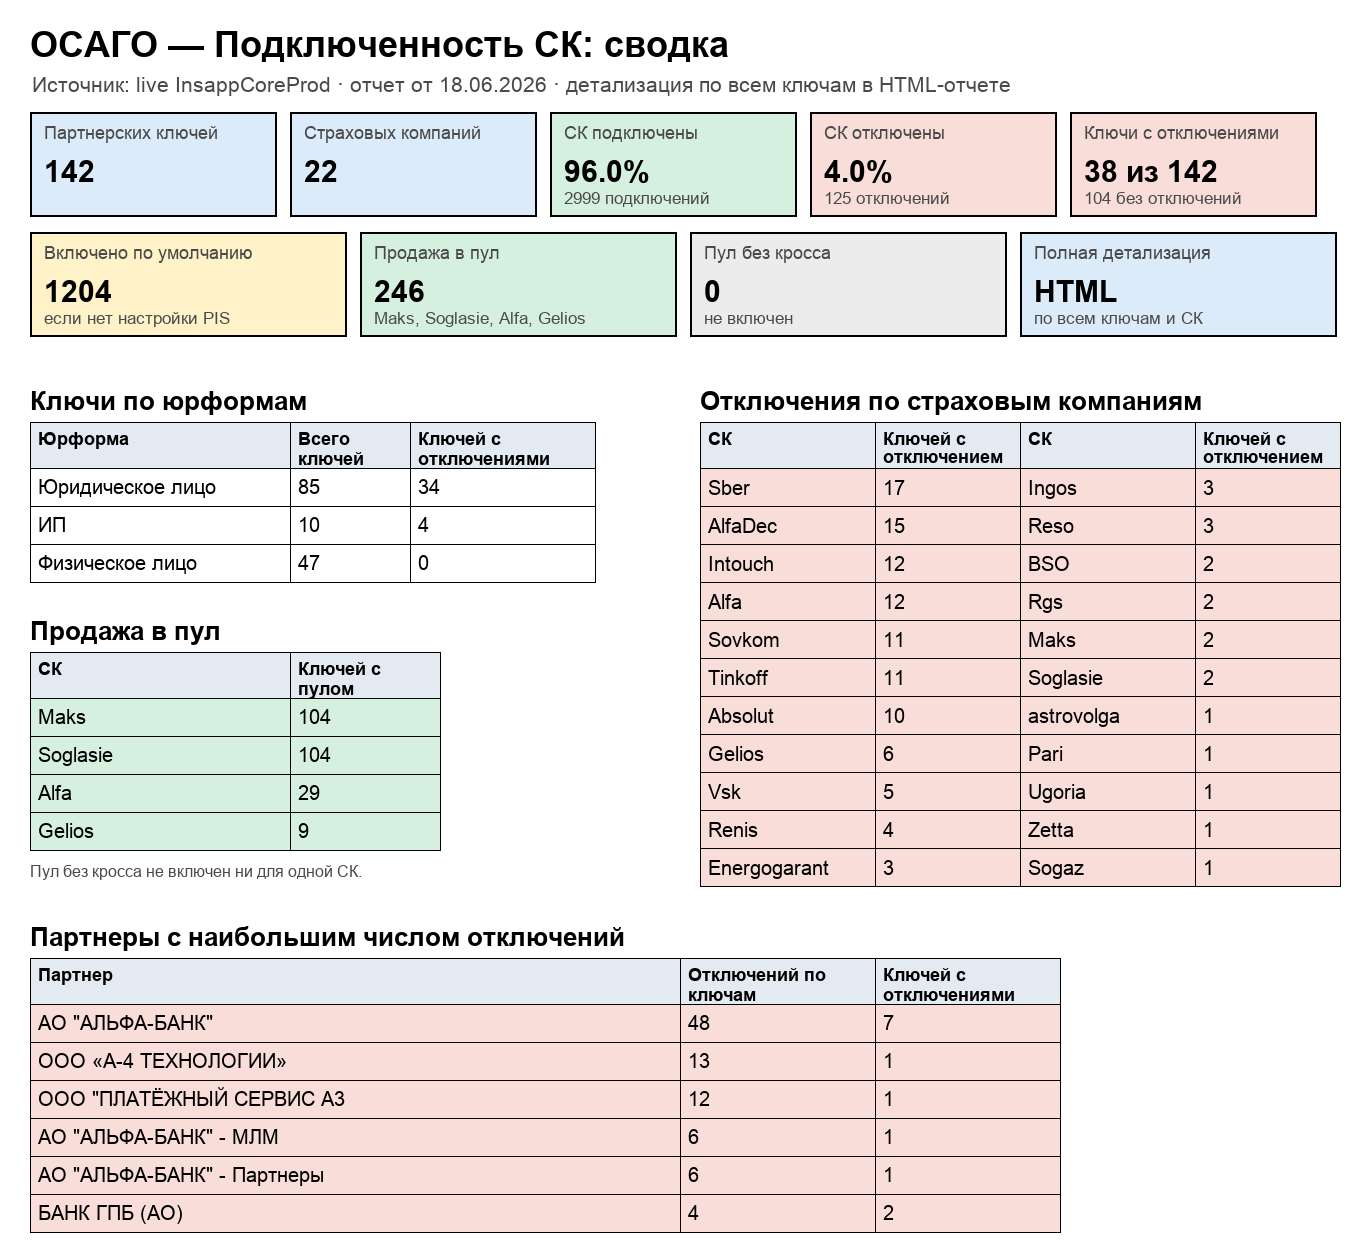
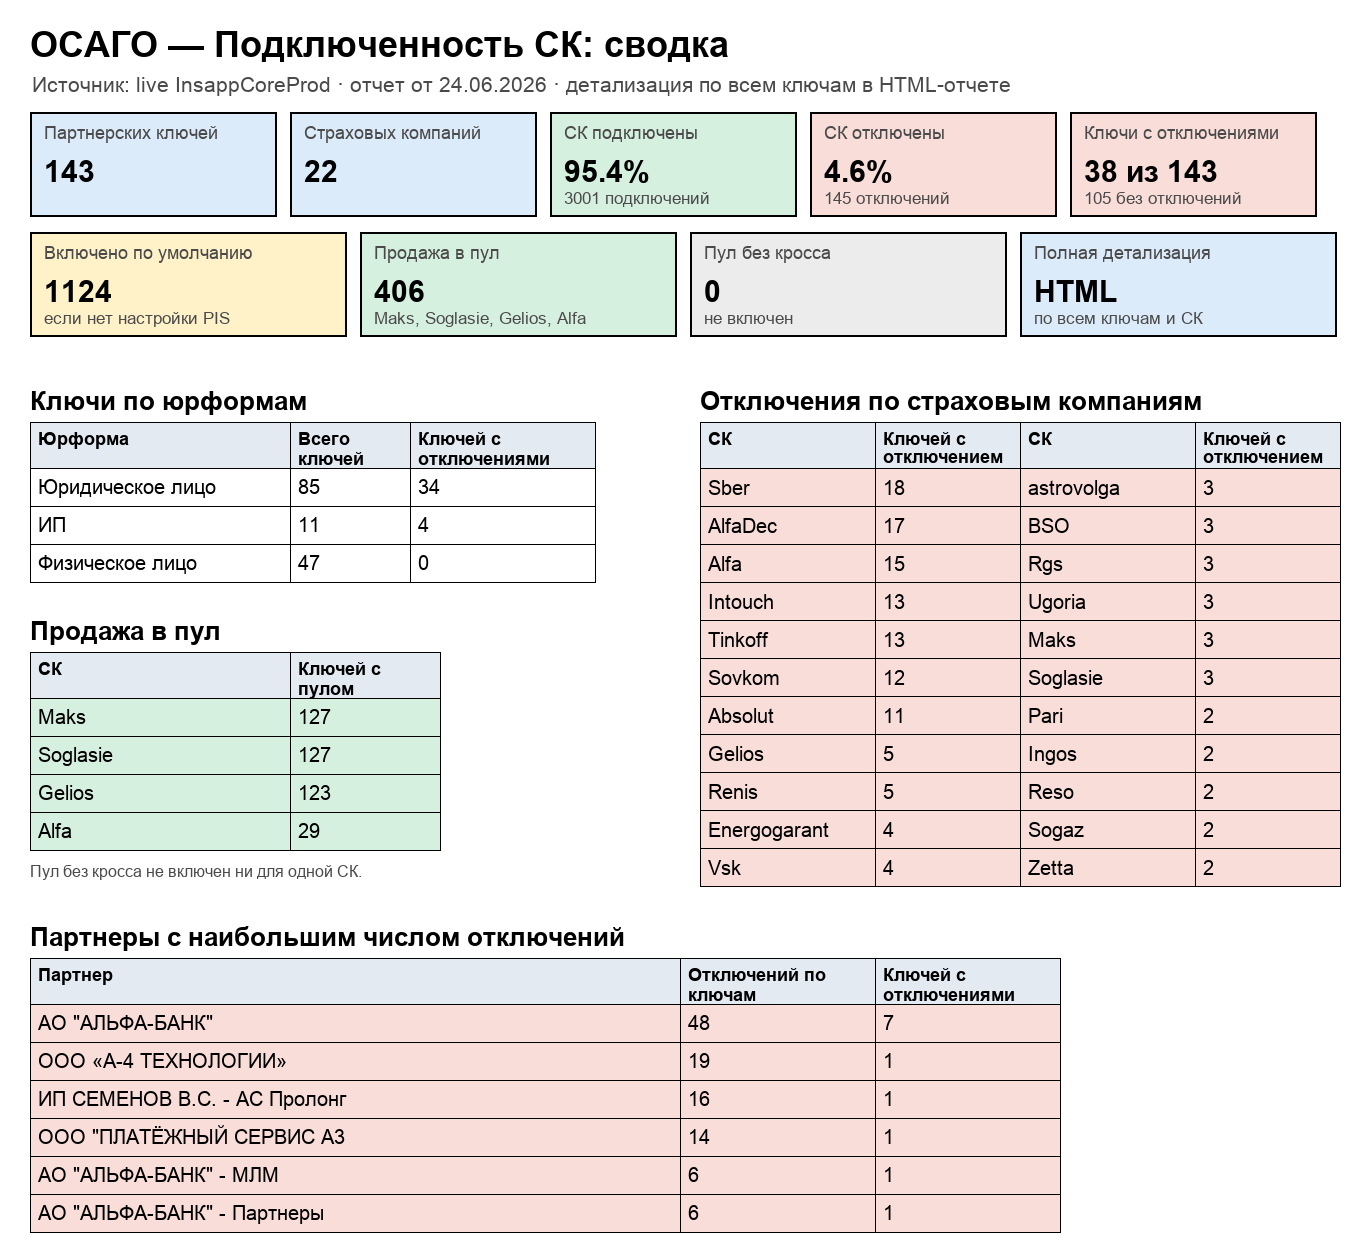
Update OSAGO insurers report

diff --git a/index.html b/index.html
@@ -112,7 +112,7 @@ a:hover{text-decoration:underline}
         <td>ОСАГО — Подключенность СК</td>
         <td><a href="https://nikitkafas87-ai.github.io/reports-index/osago-insurers-report/" target="_blank">ОСАГО — Подключенность СК</a></td>
         <td><span class="pw">—</span></td>
-        <td class="date">09.06.2026</td>
+        <td class="date">24.06.2026</td>
       </tr>
 
       <tr>
@@ -136,5 +136,6 @@ a:hover{text-decoration:underline}
 <!-- refreshed 2026-06-09 badges-osago mobile responsive -->
 <!-- refreshed 2026-06-09 osago-insurers -->
 <!-- refreshed 2026-06-09 osago-crosses -->
+<!-- refreshed 2026-06-24 osago-insurers -->
 </body>
 </html>